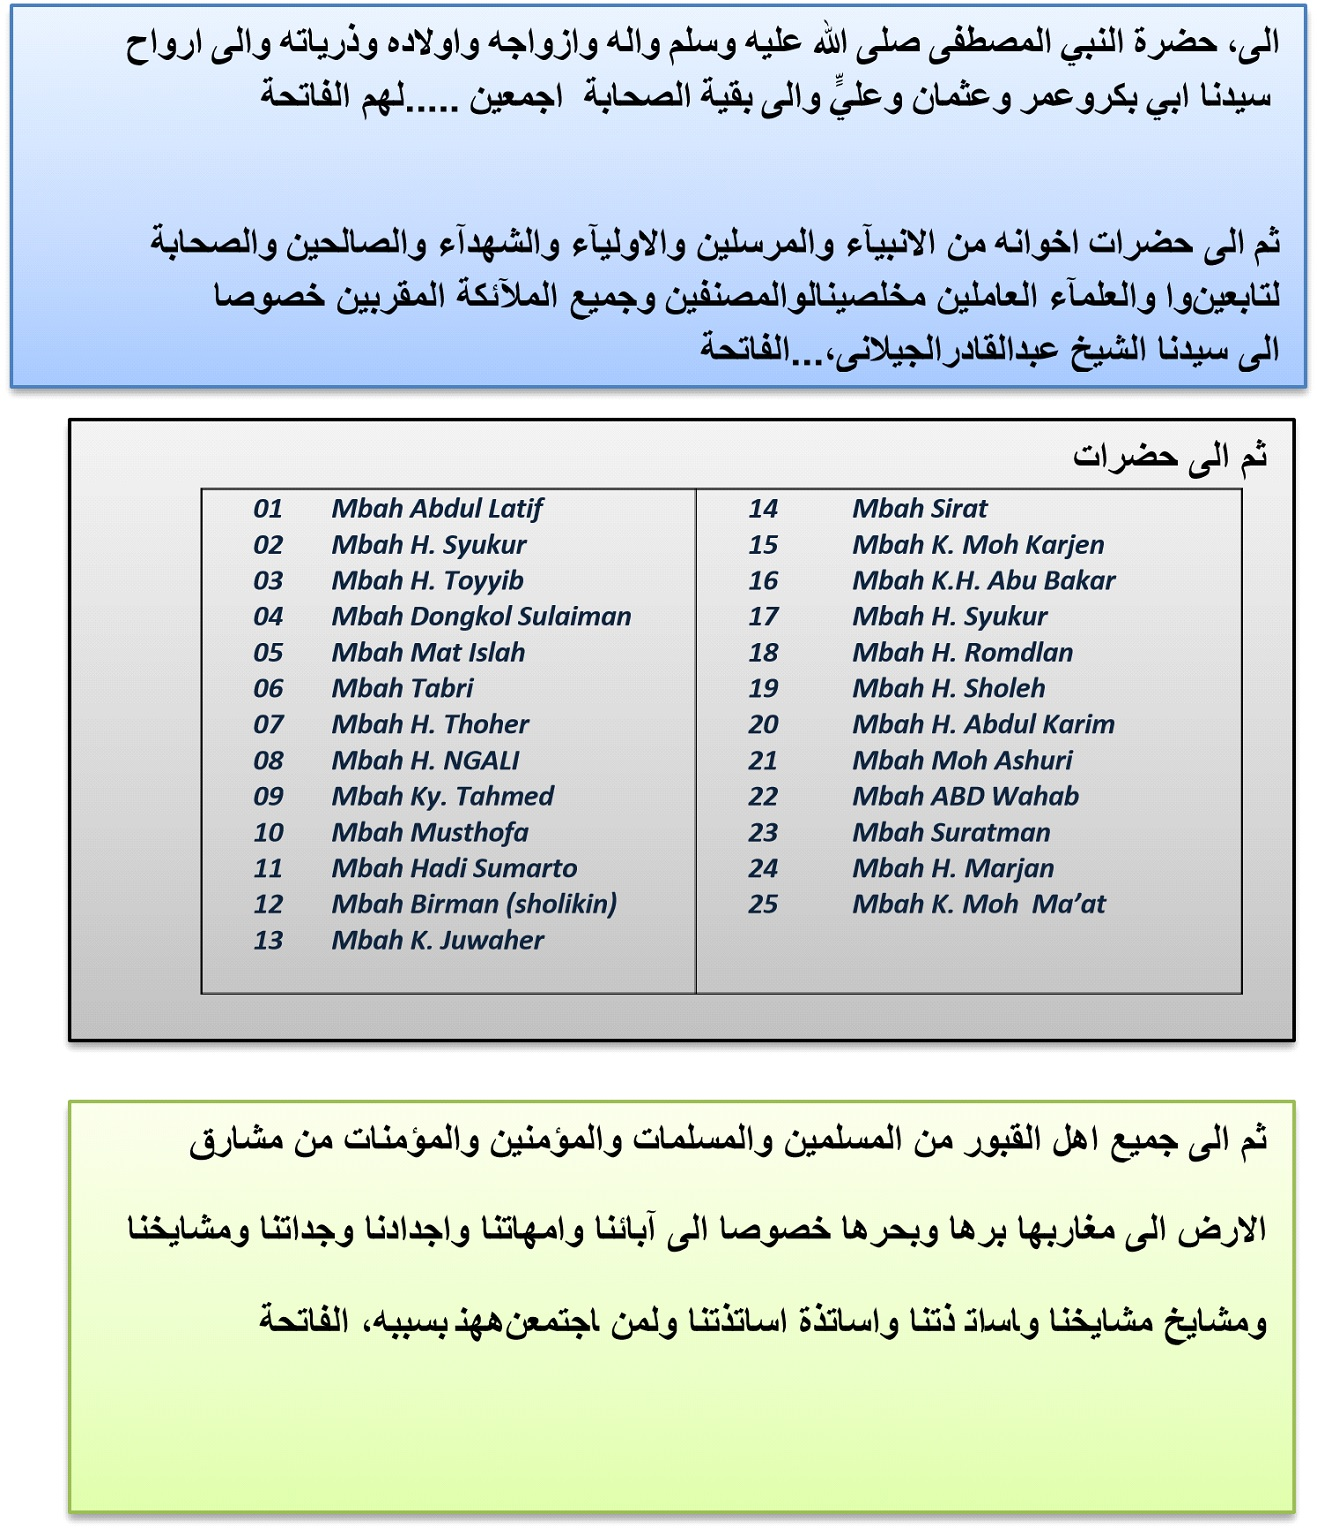
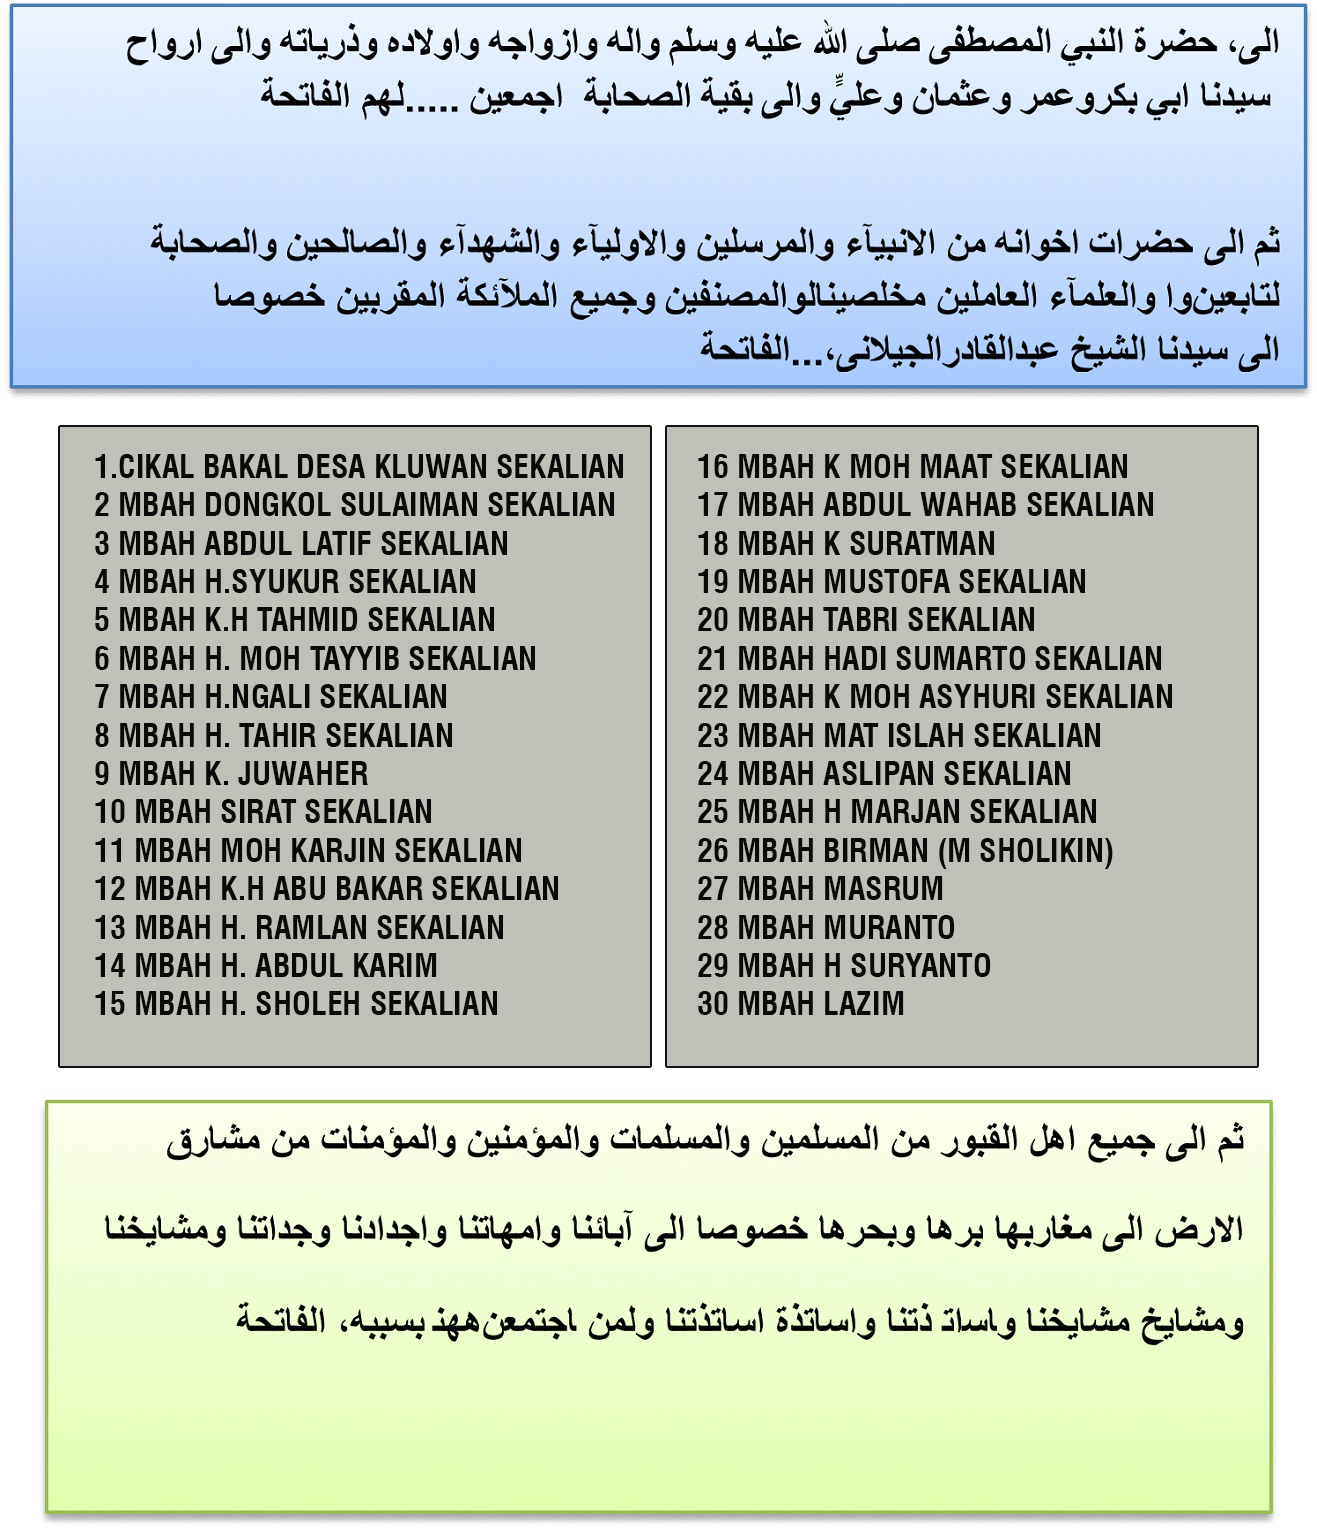
menambah ahli kubur dan revisi isfak lana

diff --git a/index.html b/index.html
@@ -135,7 +135,7 @@
 					يَارَسُــــوْلَ الله يَـايَـا نَبِى يَـا يَـا نَبِى <br>
 					لَكَ الشَّفَا عَةْ وَهٰذَا مَطْلَبِى يَـا نَبِى <br>
 					اَنْتَ الْمُرْتَجٰى يَوْمَ الزِّحَــام <br>
-					يَا يَا خَيْرَالْاَنَامْ   اِشْفَـــعْ لَنَا <br>
+					اِشْفَـــعْ لَنَا يَا يَا خَيْرَالْاَنَامْ <br>
 					اِشْفَعْ لَنَا لَنَا لَنَا يَا حَبِيْبَنَا <br>
 					لَكَ الشَّفَا عَةْ يَا رَسِوْلَ الله <br>
 					يَا يَا نَبِى  يَا نَبِى <br>
